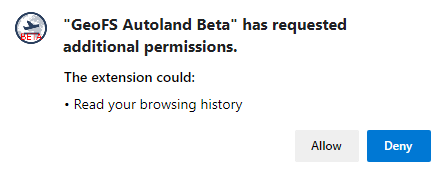
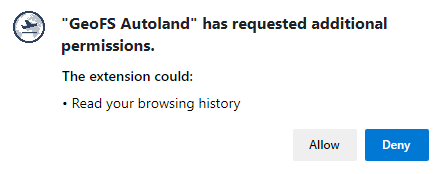
updated naming and dialog to real extension, made the commit script test before commiting

diff --git a/build/ui/oninstall/oninstall.html b/build/ui/oninstall/oninstall.html
@@ -30,7 +30,6 @@
     <ol>
       <li>Click the button on the bottom of the page.</li>
       <li>A dialog box will pop up that looks like this:</li>
-      <!-- TODO: Update dialog.png to real extension -->
       <img src="dialog.png" alt="a dialog box" />
       <li>Click "Allow".</li>
       <li>That's it! The extension is now fully functional!</li>

diff --git a/extension/ui/oninstall/oninstall.html b/extension/ui/oninstall/oninstall.html
@@ -30,7 +30,6 @@
     <ol>
       <li>Click the button on the bottom of the page.</li>
       <li>A dialog box will pop up that looks like this:</li>
-      <!-- TODO: Update dialog.png to real extension -->
       <img src="dialog.png" alt="a dialog box" />
       <li>Click "Allow".</li>
       <li>That's it! The extension is now fully functional!</li>

diff --git a/commit.py b/commit.py
@@ -11,6 +11,9 @@ name = input('Enter commit name\n> ')
 # build the extension
 run_command('npm run build')
 
+# test the extension
+run_command('npm run test')
+
 # commit
 run_command('git pull')
 run_command('git add .')
